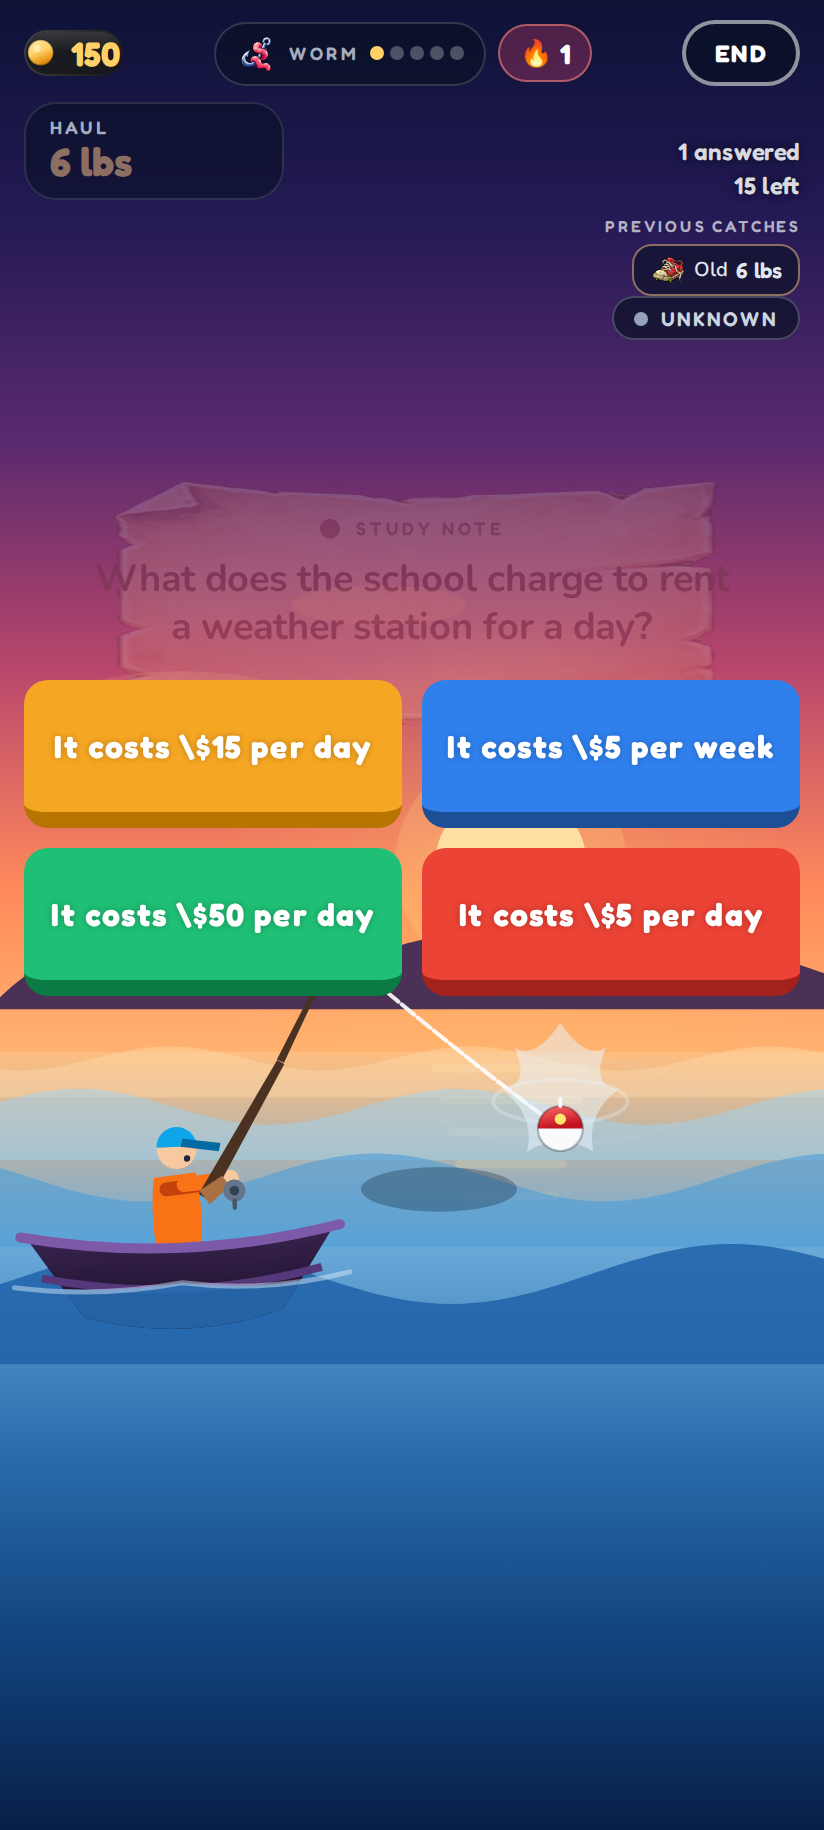
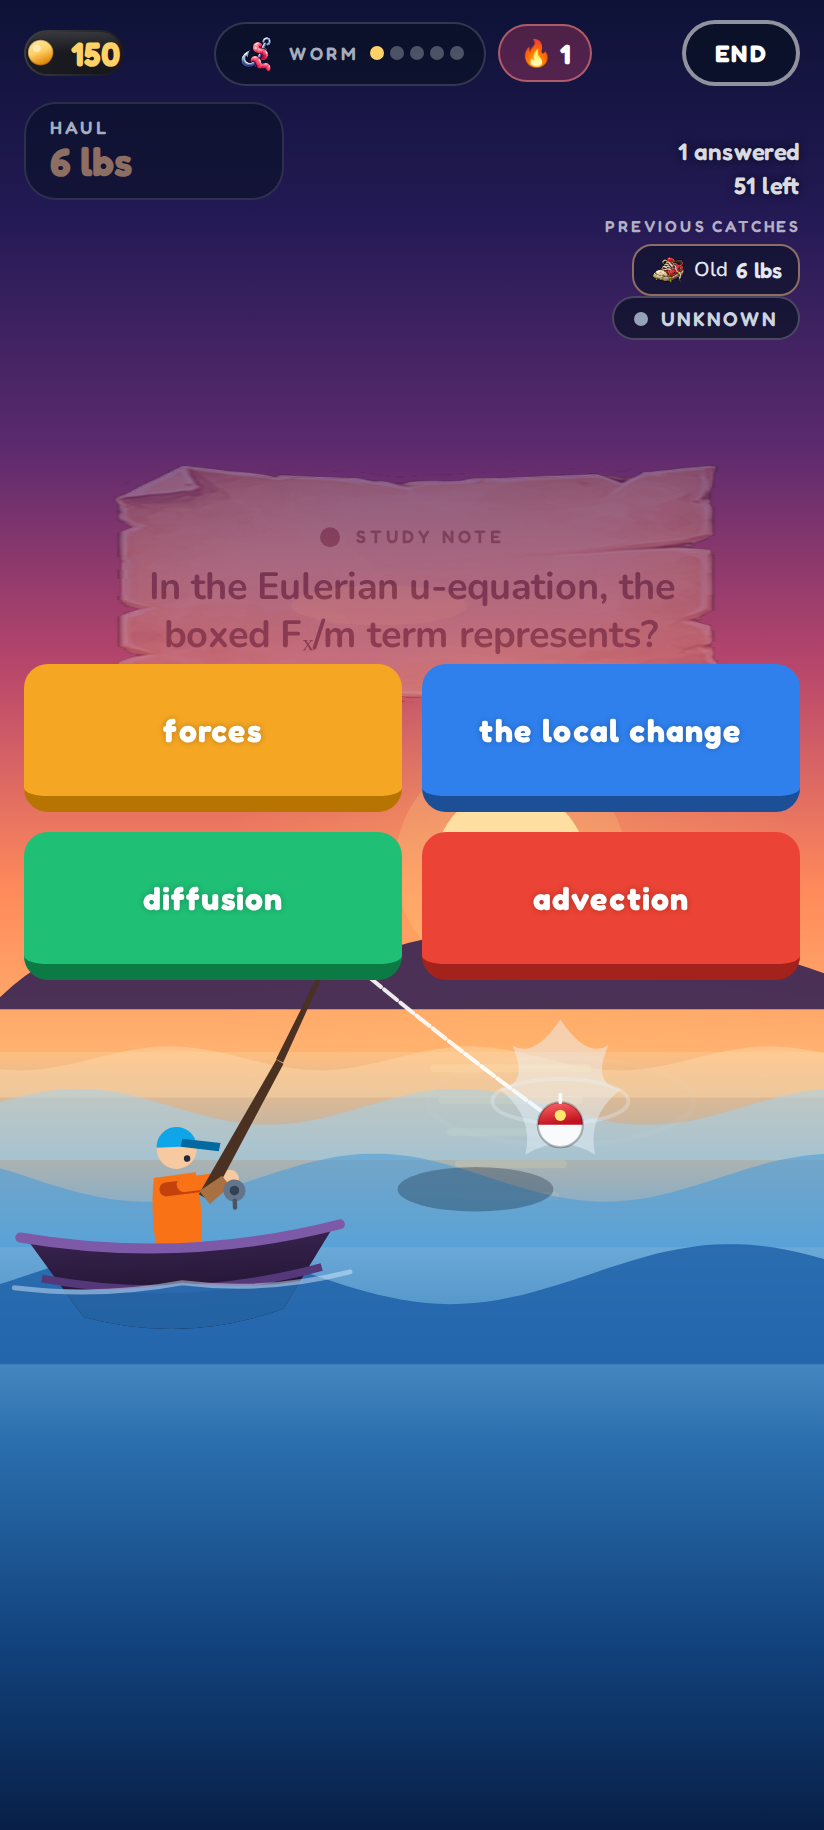
fix(fishing): parchment note sizes to its content, text never leaves the paper; v0.1.6

diff --git a/apps/mobile/src/modes/fishing/QuestionNote.tsx b/apps/mobile/src/modes/fishing/QuestionNote.tsx
@@ -5,9 +5,10 @@ import {
   type FishingQuestion,
   type MasteryStatus,
 } from '@study-app/core';
-import { useEffect, useMemo, useState } from 'react';
+import { useCallback, useEffect, useMemo, useState } from 'react';
 import {
-  ImageBackground,
+  Image,
+  type LayoutChangeEvent,
   Pressable,
   ScrollView,
   StyleSheet,
@@ -128,6 +129,18 @@ export function QuestionNote({
   const [burst, setBurst] = useState(0);
   // The parchment of the question card (the art of the UI piece).
   const parchment = artFor('ui_parchment_note');
+  // The size of the content box of the note: the art is stretched past it.
+  const [noteSize, setNoteSize] = useState<{ width: number; height: number } | null>(null);
+  const onNoteLayout = useCallback((event: LayoutChangeEvent) => {
+    const { width, height } = event.nativeEvent.layout;
+    setNoteSize((current) =>
+      current !== null &&
+      Math.abs(current.width - width) < 1 &&
+      Math.abs(current.height - height) < 1
+        ? current
+        : { width, height },
+    );
+  }, []);
 
   // Every new question starts hidden again.
   useEffect(() => {
@@ -223,14 +236,16 @@ export function QuestionNote({
           {parchment === null ? (
             <View style={[styles.note, styles.notePlain]}>{body}</View>
           ) : (
-            <ImageBackground
-              source={parchment}
-              resizeMode="stretch"
-              style={styles.note}
-              imageStyle={styles.noteImage}
-            >
+            <View style={styles.note} onLayout={onNoteLayout}>
+              {noteSize === null ? null : (
+                <Image
+                  source={parchment}
+                  resizeMode="stretch"
+                  style={[styles.noteImage, parchmentFrame(noteSize)]}
+                />
+              )}
               {body}
-            </ImageBackground>
+            </View>
           )}
         </Animated.View>
 
@@ -304,14 +319,16 @@ export function QuestionNote({
         {parchment === null ? (
           <View style={[styles.note, styles.notePlain]}>{body}</View>
         ) : (
-          <ImageBackground
-            source={parchment}
-            resizeMode="stretch"
-            style={styles.note}
-            imageStyle={styles.noteImage}
-          >
+          <View style={styles.note} onLayout={onNoteLayout}>
+            {noteSize === null ? null : (
+              <Image
+                source={parchment}
+                resizeMode="stretch"
+                style={[styles.noteImage, parchmentFrame(noteSize)]}
+              />
+            )}
             {body}
-          </ImageBackground>
+          </View>
         )}
       </Animated.View>
 
@@ -548,6 +565,19 @@ function AnswerTile({
   );
 }
 
+/**
+ * The frame of the parchment art around a content box.
+ *
+ * The art is a square with a torn, transparent margin (about 14-18 % at the
+ * top and 13 % at the bottom). It is stretched past the box so the solid
+ * paper covers the whole box whatever its height: the text never sits on the
+ * transparent edge, however tall the question is.
+ */
+function parchmentFrame(size: { width: number; height: number }) {
+  const art = size.height / 0.66;
+  return { width: size.width, top: -art * 0.19, height: art };
+}
+
 const styles = StyleSheet.create({
   area: {
     width: '100%',
@@ -589,24 +619,28 @@ const styles = StyleSheet.create({
     width: '100%',
     maxWidth: 520,
     alignItems: 'center',
+    // Room for the torn margin of the art drawn past the content box.
+    marginTop: 26,
+    marginBottom: 20,
   },
   note: {
     width: '100%',
     maxWidth: 520,
-    minHeight: 150,
+    minHeight: 96,
     // The parchment art has a transparent, torn border (roughly a tenth of
     // its width on each side): the inner padding has to clear it, or the
     // text ends up on the ragged edge of the paper.
     paddingLeft: 52,
     paddingRight: 52,
-    paddingTop: 30,
-    paddingBottom: 24,
+    paddingTop: 14,
+    paddingBottom: 12,
     gap: 6,
-    overflow: 'hidden',
+    // The paper grows with its content; nothing is clipped.
+    overflow: 'visible',
   },
   noteImage: {
-    width: '100%',
-    height: '100%',
+    position: 'absolute',
+    left: 0,
     borderRadius: 14,
   },
   notePlain: {
